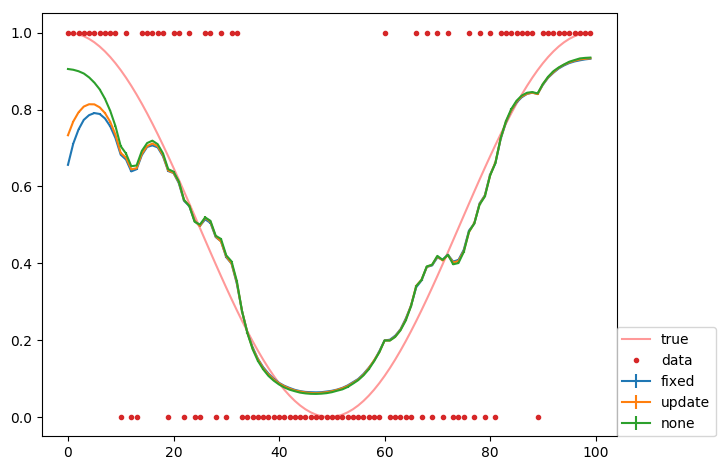
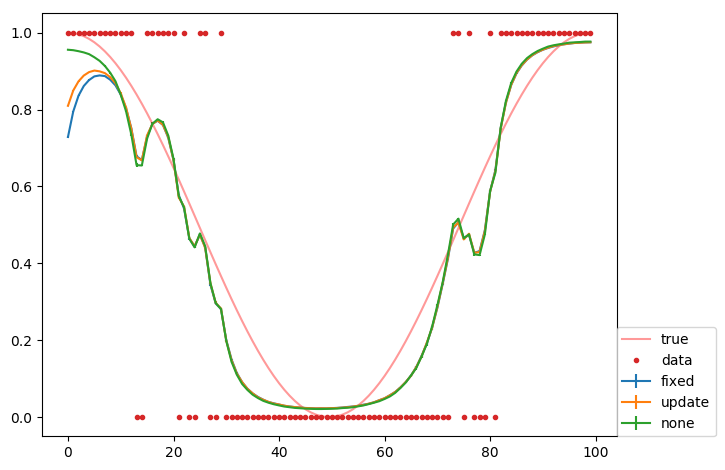
before adding variable max response

diff --git a/PySS/fit_bernoulli.py b/PySS/fit_bernoulli.py
@@ -19,14 +19,16 @@ reload(pdistnv2)
 from pdistnv2 import pdistnv2
 
 
-_disable = False # progressbar
 
 def fit_bernoulli(Responses,
+                  MaxResponse = 1,
                   chance_prior_type = 'fixed',
+                  disable = True
                   ):
     '''
 
     :param Responses: sequence of 0s or 1s. dtype = list, np.array. shape = (1, N)
+    :param MaxResponse: number of possible correct per trial. can be vector
     :param chance_prior_type one of 'fixed', 'update', 'none', : dtype: str
     :return: pmid, p025, p075
     '''
@@ -36,13 +38,13 @@ def fit_bernoulli(Responses,
 
     UpdaterFlagDict = {'fixed': 0, 'update': 1, 'none': 2, }  # todo: deprecate
 
-    MaxResponse = 1
+
     BackgroundProb = 0.5
     UpdaterFlag = UpdaterFlagDict[chance_prior_type]
 
     SigE = 0.5  # default variance of learning state process is sqrt(0.5)
 
-    Responses = _check_input(Responses)
+    Responses = _check_input(Responses, MaxResponse)
     I = np.concatenate([Responses, MaxResponse * np.ones(Responses.shape)], axis=0)
 
     SigsqGuess = np.square(SigE)
@@ -59,7 +61,7 @@ def fit_bernoulli(Responses,
 
     newsigsq = []
     xnew1save = []
-    for i in tqdm(range(NumberSteps), disable = _disable):
+    for i in tqdm(range(NumberSteps), disable = disable):
         p, x, s, xold, sold = forwardfilter(I, SigE, xguess, SigsqGuess, mu)
 
         # Compute the backward (smoothing algorithm) estimates of the learning
@@ -94,10 +96,12 @@ def fit_bernoulli(Responses,
             a2 = np.abs(xnew1save[i] - xnew1save[i-1])
 
             if (a1 < CvgceCrit) and (a2 < CvgceCrit) and (UpdaterFlag >= 1):
-                print 'EM estimates of learning state process variance and start point converged after %d steps'%(i+1)
+                if not disable:
+                    print 'EM estimates of learning state process variance and start point converged after %d steps'%(i+1)
                 break
             elif (a1 < CvgceCrit) and (UpdaterFlag == 0):
-                print 'EM estimates of learning state process variance converged after %d steps'%(i+1)
+                if not disable:
+                    print 'EM estimates of learning state process variance converged after %d steps'%(i+1)
                 break
 
         SigE = np.sqrt(newsigsq[i])
@@ -120,8 +124,18 @@ def fit_bernoulli(Responses,
     return pmid, p025, p975
 
 # Helper functions
-def _check_input(Responses):
+def _check_input(Responses, MaxResponse):
+
     Responses = np.array(Responses)
+    if isinstance(MaxResponse, (np.ndarray, list)):
+        MaxResponse = np.array(MaxResponse)
+        if (MaxResponse.shape) == 1:
+            MaxResponse = MaxResponse[None, :]
+        if MaxResponse.shape[0] !=1:
+            MaxResponse = np.transpose(MaxResponse)
+        assert MaxResponse.shape[0] == 1
+
+
 
     if len(Responses.shape) == 1:
         Responses = Responses[None, :]
@@ -130,4 +144,4 @@ def _check_input(Responses):
         Responses = np.transpose(Responses)
 
     assert Responses.shape[0] == 1
-    return Responses
+    return Responses, MaxResponse

diff --git a/PySS/run_test.py b/PySS/run_test.py
@@ -14,6 +14,7 @@ niter = 5
 ptrue = np.linspace(0, 1, ntrials)
 ptrue = (1 + np.cos(np.linspace(0, 2*np.pi, ntrials)))/2.
 x = np.random.rand(ntrials) < ptrue
+x = [1,1,1,1,1,1,1,1,1,1,1,1,1,0,0,1,1,1,1,1,1,0,1,0,0,1,1,0,0,1,0,0,0,0,0,0,0,0,0,0,0,0,0,0,0,0,0,0,0,0,0,0,0,0,0,0,0,0,0,0,0,0,0,0,0,0,0,0,0,0,0,0,0,1,1,0,1,0,0,0,1,0,1,1,1,1,1,1,1,1,1,1,1,1,1,1,1,1,1,1,]
 
 
 for chance_prior_type in ['fixed', 'update', 'none']:

diff --git a/PySS/__init__.py b/PySS/__init__.py
@@ -1,0 +1,3 @@
+import fit_bernoulli
+reload(fit_bernoulli)
+from fit_bernoulli import fit_bernoulli
